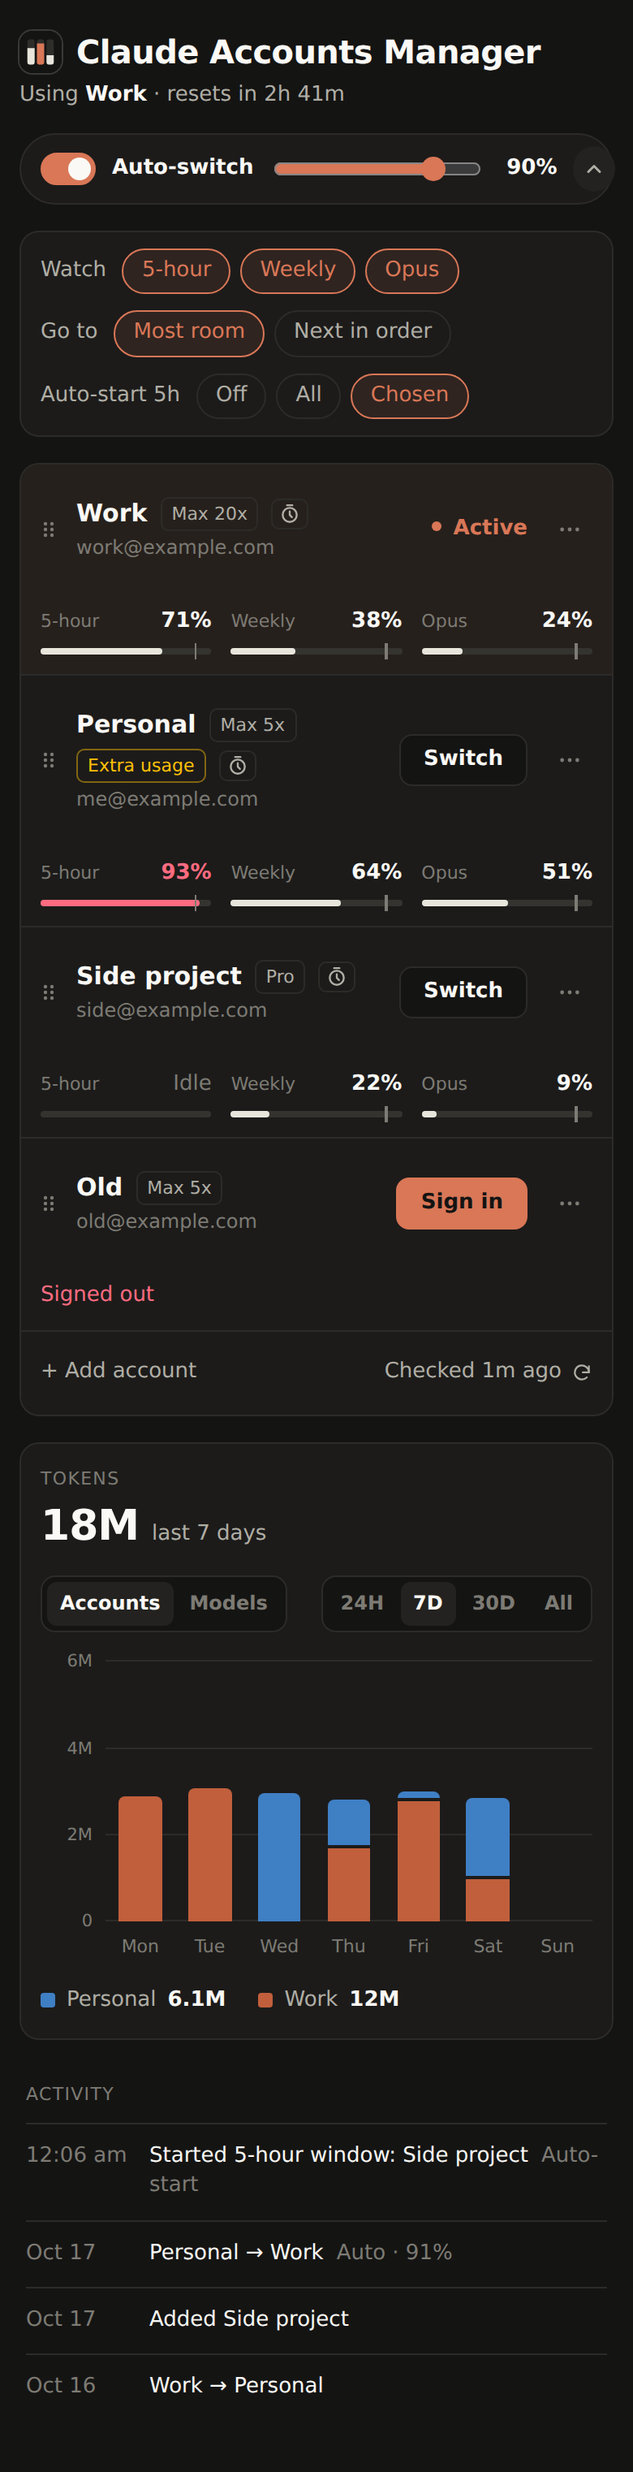
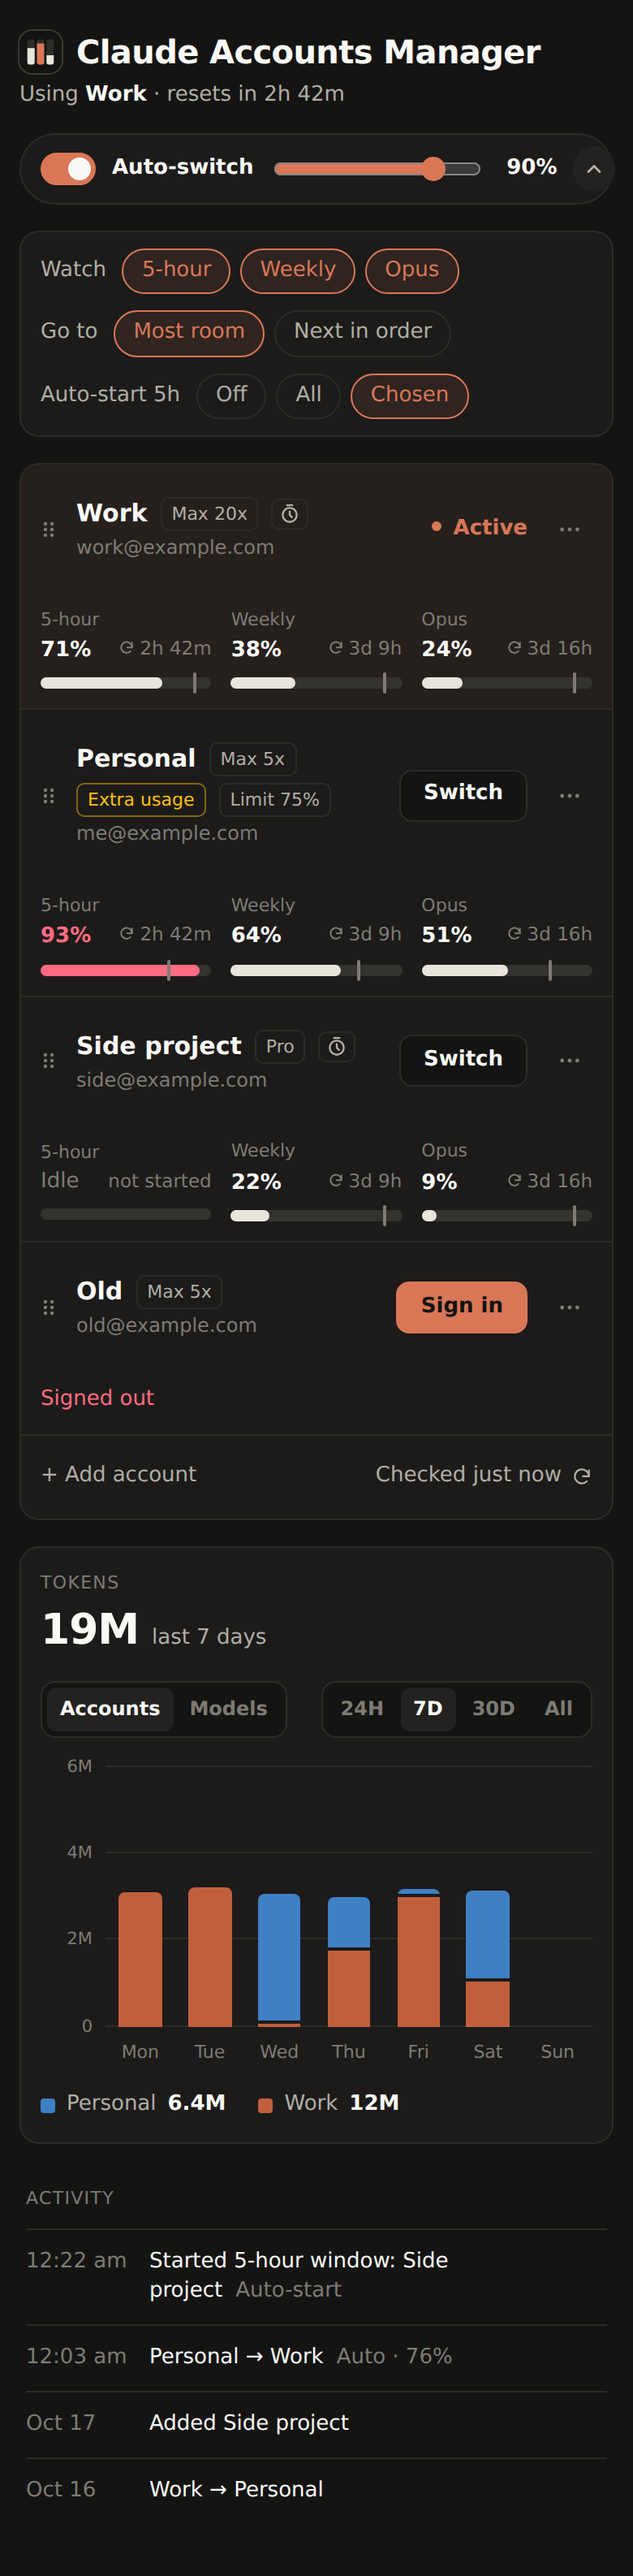
Percentage and reset time on one line above each bar
The time left until the limit resets sits opposite the percentage, with a
reset icon ("2h 42m", "3d 9h"); the exact time stays in the tooltip. On
phones the limit's name moves to a small line above so both fit.

diff --git a/public/app.js b/public/app.js
@@ -90,29 +90,32 @@ function render() {
   renderLog();
 }
 
-// "resets in 2h 41m" under each bar; the exact time is in the tooltip.
-function resetLine(m, idle) {
-  if (idle) return '<div class="mc-reset">not started</div>';
-  if (!m?.resetsAt) return '<div class="mc-reset">&nbsp;</div>';
+// Right side of the line above a bar: a reset icon and the time left ("2h 41m", "3d 9h").
+// The full wording and the exact day and time are in the tooltip.
+const ICON_RESET = '<svg viewBox="0 0 24 24" fill="none" stroke="currentColor" stroke-width="2.4" stroke-linecap="round" stroke-linejoin="round" aria-hidden="true"><path d="M20 11a8 8 0 1 0-2.3 5.7"/><path d="M20 4v7h-7"/></svg>';
+function resetText(m, idle) {
+  if (idle) return '<span class="mc-r">not started</span>';
+  if (!m?.resetsAt) return '';
   const when = untilText(m.resetsAt);
-  return `<div class="mc-reset">${when === 'now' ? 'resetting now' : `resets ${esc(when)}`}</div>`;
+  return `<span class="mc-r" aria-label="resets ${esc(when)}">${ICON_RESET}${when === 'now' ? 'now' : esc(when.replace(/^in /, ''))}</span>`;
 }
+// The limit's name sits above the line on phones (desktop has the column header instead).
+const nameLine = (label) => `<div class="mc-k">${esc(label)}</div>`;
 const resetClock = (iso) => new Date(iso).toLocaleString([], { weekday: 'short', hour: 'numeric', minute: '2-digit' });
 
 function meterCell(a, c) {
   const m = a.meters.find((x) => x.id === c.id);
   if (!m && c.cat === 'session' && a.sessionIdle) {
-    return `<div class="mc" title="5-hour window not started"><div class="mc-top"><span class="mc-k">${esc(c.label)}</span><b class="idle">Idle</b></div><div class="bar"></div>${resetLine(null, true)}</div>`;
+    return `<div class="mc" title="5-hour window not started">${nameLine(c.label)}<div class="mc-top"><b class="idle">Idle</b>${resetText(null, true)}</div><div class="bar"></div></div>`;
   }
-  if (!m) return `<div class="mc off"><div class="mc-top"><span class="mc-k">${esc(c.label)}</span><b>–</b></div><div class="bar"></div>${resetLine(null)}</div>`;
+  if (!m) return `<div class="mc off">${nameLine(c.label)}<div class="mc-top"><b>–</b></div><div class="bar"></div></div>`;
   const counted = S.settings.watch[m.cat] && m.active;
   const lv = counted ? level(m.pct, limitOf(a)) : '';
   const idle = m.cat === 'session' && a.sessionIdle;
   const title = idle ? '5-hour window not started' : `${c.label}: ${Math.round(m.pct)}% used${m.resetsAt ? `, resets ${resetClock(m.resetsAt)}` : ''}${counted ? '' : ' (not watched)'}`;
   return `<div class="mc ${m.active ? '' : 'off'}" title="${esc(title)}">
-    <div class="mc-top"><span class="mc-k">${esc(c.label)}</span>${idle ? '<b class="idle">Idle</b>' : `<b class="num ${lv}">${Math.round(m.pct)}%</b>`}</div>
+    ${nameLine(c.label)}<div class="mc-top">${idle ? '<b class="idle">Idle</b>' : `<b class="num ${lv}">${Math.round(m.pct)}%</b>`}${resetText(m, idle)}</div>
     <div class="bar"><i class="${lv}" style="width:${Math.min(100, Math.max(0, m.pct))}%"></i>${counted && S.settings.autoSwitch ? `<s style="left:${limitOf(a)}%"></s>` : ''}</div>
-    ${resetLine(m, idle)}
   </div>`;
 }
 

diff --git a/public/app.css b/public/app.css
@@ -83,7 +83,10 @@ button, input, select { font: inherit; color: inherit; }
 .tag.ico svg { width: 13px; height: 13px; }
 .grip { display: none; }
 .row.skip .nm b, .row.skip .nm-mail, .row.skip .mc { opacity: .5; }
-.mc-top { display: flex; justify-content: space-between; align-items: baseline; gap: 6px; }
+.mc-top { display: flex; justify-content: space-between; align-items: baseline; gap: 8px; min-width: 0; }
+.mc-top b { flex: none; }
+.mc-r { display: inline-flex; align-items: center; gap: 3px; font-size: 11.5px; color: var(--text-3); white-space: nowrap; overflow: hidden; min-width: 0; font-variant-numeric: tabular-nums; }
+.mc-r svg { width: 10px; height: 10px; flex: none; }
 .mc-top b { font-size: 13px; font-weight: 600; }
 .mc-top b.near { color: var(--yellow); } .mc-top b.over { color: var(--red); }
 .mc-k { display: none; font-size: 11px; color: var(--text-3); }
@@ -91,7 +94,6 @@ button, input, select { font: inherit; color: inherit; }
 .bar { position: relative; height: 7px; margin-top: 7px; border-radius: 4px; background: #34332F; }
 .bar i { position: absolute; left: 0; top: 0; bottom: 0; border-radius: 4px; background: var(--meter); transition: width .5s; }
 .bar i.near { background: var(--yellow); } .bar i.over { background: var(--red); }
-.mc-reset { margin-top: 5px; font-size: 11.5px; color: var(--text-3); white-space: nowrap; overflow: hidden; text-overflow: ellipsis; }
 .bar s { position: absolute; top: -3px; bottom: -3px; width: 2px; margin-left: -1px; border-radius: 1px; background: var(--text-3); }
 .gone { color: var(--red); font-size: 13px; }
 .act { justify-self: end; }
@@ -210,7 +212,7 @@ a.btn { display: inline-flex; align-items: center; text-decoration: none; }
   .nm { flex: 1 1 0; order: 0; }
   .act { order: 1; } .dots { order: 2; } .br { display: block; order: 3; flex-basis: 100%; height: 0; }
   .mc, .gone { order: 4; flex: 1 1 0; min-width: 0; }
-  .mc-k { display: inline; }
+  .mc-k { display: block; margin-bottom: 2px; }
   .grip { display: grid; place-items: center; width: 18px; height: 28px; margin-left: -4px; color: var(--text-3); touch-action: none; cursor: grab; flex: none; }
   .grip svg { width: 12px; height: 12px; }
   .tfoot { padding: 0 12px; }
